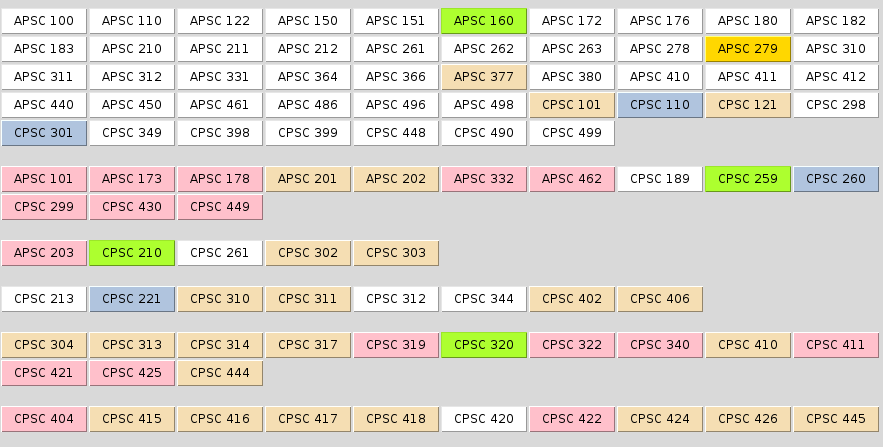
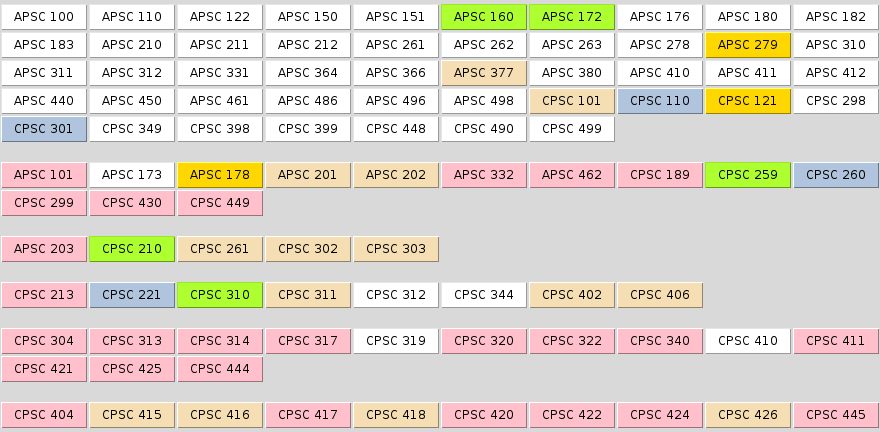
Update req screenshot and description

diff --git a/projects.html b/projects.html
@@ -7,36 +7,36 @@ description: The software projects of Eugene Y. Q. Shen, or basically a list of 
 
   <h3>Tsukiyo</h3>
   <p>GitHub link: <a href="https://github.com/eyqs/tsukiyo/releases">https://github.com/eyqs/tsukiyo/releases</a></p>
-  <a href="{{ "/assets/images/projects/tsukiyo.png" | prepend: site.baseurl }}"><img src="{{ "/assets/images/projects/tsukiyo.png" | prepend: site.baseurl }}" alt="Screenshot of Tsukiyo displaying a truncated icosidodecahedron" height="264" width="240" /></a>
+  <a href="{{ "/assets/images/projects/tsukiyo.png" | prepend: site.baseurl }}"><img src="{{ "/assets/images/projects/tsukiyo.png" | prepend: site.baseurl }}" alt="Screenshot of Tsukiyo displaying a truncated icosidodecahedron" width="240" height="264" /></a>
   <p>Tsukiyo is a program that displays and rotates various polytopes in 4D. I spent about four months developing it as the focus of my International Baccalaureate Extended Essay and Math Internal Assessment, and then two more years on and off until I released v1.0.0 in February 2016. You can enter in a Schläfli symbol or Wythoff symbol, set the viewing axes and rotation axes, and rotate your polytope to your heart's content. Although it seems simple, this is my proudest project, since I personally developed all its (very simple) algorithms from scratch, without any external references!</p>
 
   <h3>2do</h3>
   <p>GitHub link: <a href="https://github.com/eyqs/2do/releases/">https://github.com/eyqs/2do/releases/</a></p>
-  <a href="{{ "/assets/images/projects/2do.png" | prepend: site.baseurl }}"><img src="{{ "/assets/images/projects/2do.png" | prepend: site.baseurl }}" alt="Screenshot of 2do creating notifications in awesome" height="128" width="328" /></a>
+  <a href="{{ "/assets/images/projects/2do.png" | prepend: site.baseurl }}"><img src="{{ "/assets/images/projects/2do.png" | prepend: site.baseurl }}" alt="Screenshot of 2do creating notifications in awesome" width="328" height="128" /></a>
   <p>2do is a simple program that schedules tasks and creates notifications. After realizing that my eyesight was seriously deteriorating due to staring at my laptop for 25 hours a day, I finally took my parents' advice and decided to take a break every half hour. Unfortunately, I didn't know how to notify myself every half hour until I wrote 2do to do that for me. Along the way, I also had 2do change my wallpaper every ten minutes, suspend my laptop when battery is low, and nab me the Fanatic badges on Stack Exchange!</p>
 
   <h3>cvx</h3>
   <p>GitHub link: <a href="https://github.com/eyqs/cvx/releases/">https://github.com/eyqs/cvx/releases/</a></p>
-  <a href="{{ "/assets/images/projects/cvx.png" | prepend: site.baseurl }}"><img src="{{ "/assets/images/projects/cvx.png" | prepend: site.baseurl }}" alt="Screenshot of a webpage made by cvx compared to the original LaTeX" height="135" width="240" /></a>
+  <a href="{{ "/assets/images/projects/cvx.png" | prepend: site.baseurl }}"><img src="{{ "/assets/images/projects/cvx.png" | prepend: site.baseurl }}" alt="Screenshot of a webpage made by cvx compared to the original LaTeX" width="240" height="135" /></a>
   <p>cvx is a simple LaTeX to HTML translater written in Haskell. I made it for the sole purpose of converting my resume, cv.tex, into an HTML file I could put on this website. Turns out cvx's translating capabilities aren't limited to just resumes, but cvx's translating capabilities are limited in every other way. Maybe I'll improve it after taking a course on compilers or computational linguistics.</p>
 
   <h3>grd</h3>
   <p>GitHub link: <a href="https://github.com/eyqs/grd/releases">https://github.com/eyqs/grd/releases</a></p>
-  <a href="{{ "/assets/images/projects/grd.png" | prepend: site.baseurl }}"><img src="{{ "/assets/images/projects/grd.png" | prepend: site.baseurl }}" alt="Screenshot of grd automatically writing input to a C script" height="135" width="465" /></a>
+  <a href="{{ "/assets/images/projects/grd.png" | prepend: site.baseurl }}"><img src="{{ "/assets/images/projects/grd.png" | prepend: site.baseurl }}" alt="Screenshot of grd automatically writing input to a C script" width="465" height="135" /></a>
   <p>grd is a simple tool to help me grade C programming labs. I was a marking TA for UBC's APSC 160 in 2015WT2 and got frustrated at having to manually compile every single lab and manually quit to move through them all, so I made grd to automatically compile every single lab and automatically move through them all. Ultimately, I spent more time making grd than I saved, and I won't use it ever again, so...</p>
 
   <h3>kbr</h3>
   <p>GitHub link: <a href="https://github.com/eyqs/kbr/releases">https://github.com/eyqs/kbr/releases</a></p>
-  <a href="{{ "/assets/images/projects/kbr.png" | prepend: site.baseurl }}"><img src="{{ "/assets/images/projects/kbr.png" | prepend: site.baseurl }}" alt="Screenshot of me typing 'KBR IS THE BEST' in kbr" height="164" width="234" /></a>
+  <a href="{{ "/assets/images/projects/kbr.png" | prepend: site.baseurl }}"><img src="{{ "/assets/images/projects/kbr.png" | prepend: site.baseurl }}" alt="Screenshot of me typing 'KBR IS THE BEST' in kbr" width="234" height="164" /></a>
   <p>kbr is a simple typing tutor that teaches touch typing. I often want to use my laptop with one hand while eating an apple/sandwich/snail/ice cream cone with the other hand, but my hand gets tired after jumping across the whole keyboard for an hour (I eat very slowly). The way I taught myself the Dvorak layout was by generating all the words that only contained the letters I knew how to type, retyping them, and gradually adding in new keys. I thought I might as well turn it into an actual program, and here it is. I typed this entire page with one hand using the dvorak-l layout.</p>
 
   <h3>req</h3>
   <p>GitHub link: <a href="https://github.com/eyqs/req/releases">https://github.com/eyqs/req/releases</a></p>
-  <a href="{{ "/assets/images/projects/req.png" | prepend: site.baseurl }}"><img src="{{ "/assets/images/projects/req.png" | prepend: site.baseurl }}" alt="blah blah placeholder" height="112" width="221" /></a>
-  <p>lorem ipsum ill do this lateramet</p>
+  <a href="{{ "/assets/images/projects/req.png" | prepend: site.baseurl }}"><img src="{{ "/assets/images/projects/req.png" | prepend: site.baseurl }}" alt="Screenshot of req displaying all the APSC and CPSC courses at UBC" width="220" height="108" /></a>
+  <p>req is a simple program that takes in data about course prerequisites and corequisites, then turns that into a tree of some sort. Currently it's more trouble than it's worth, since most of the data has to be input manually anyway, but it does have some meditative benefits from just clicking random courses and watching the colours gently change with the wind.</p>
 
   <h3>Tax Avoider</h3>
   <p>GitHub link: <a href="https://github.com/eyqs/tax/">https://github.com/eyqs/tax/</a></p>
-  <a href="{{ "/assets/images/projects/tax.png" | prepend: site.baseurl }}"><img src="{{ "/assets/images/projects/tax.png" | prepend: site.baseurl }}" alt="Screenshot of Tax Avoider with enemies, explosions, and no taxes to avoid" height="179" width="319" /></a>
+  <a href="{{ "/assets/images/projects/tax.png" | prepend: site.baseurl }}"><img src="{{ "/assets/images/projects/tax.png" | prepend: site.baseurl }}" alt="Screenshot of Tax Avoider with enemies, explosions, and no taxes to avoid" width="319" height="179" /></a>
   <p>Tax Avoider is a game that has nothing to do with taxes and everything to do with avoiding. This was my first programming project, which I started all the way back in 2008 (!) and didn't give up until 2013, by which time I was too old to be programming stupid Flash games. And also Flash games were too old to be played by people. The game sucks I can make a better one during a Global Game Jam. :(</p>
 </section>
